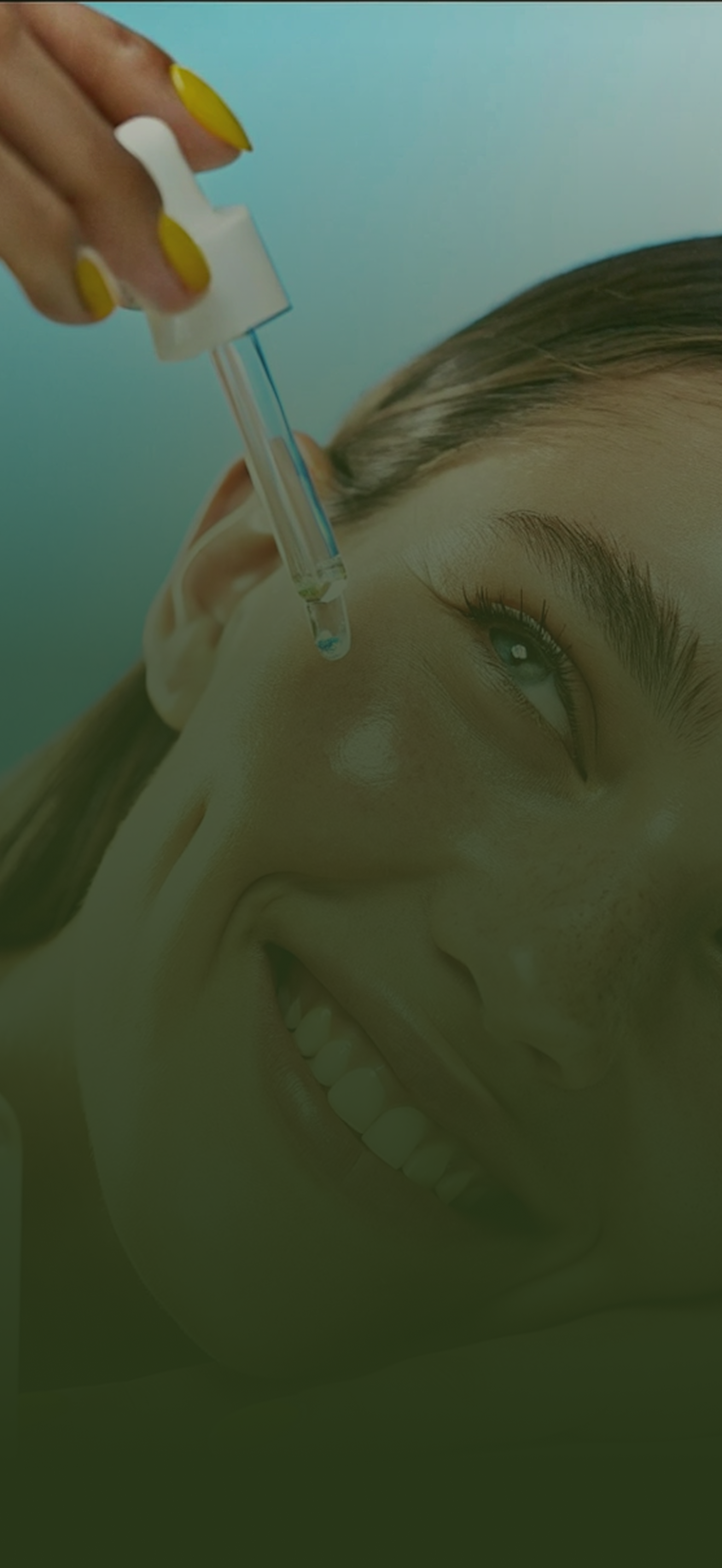
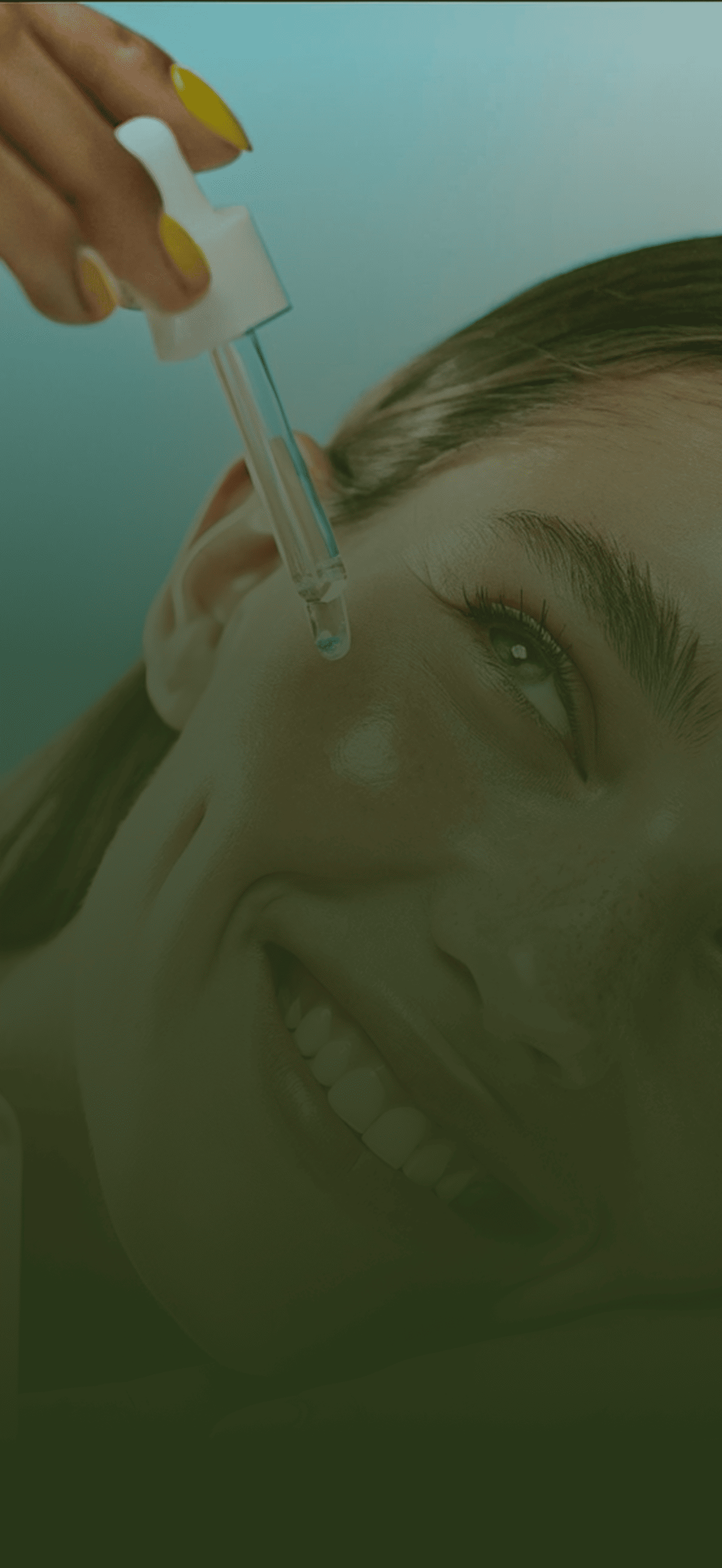
done

diff --git a/src/constant/images.ts b/src/constant/images.ts
@@ -1,10 +1,11 @@
 export const IMAGES = {
-    x2Logo: require("@/assets/images/x2Logo.png"),
+    // x2Logo: require("@/assets/images/x2Logo.png"),
     socialBackgroud: require("@/assets/images/socialBackgroud.png"),
     mapPins:require("@/assets/images/mapPin.png"),
     acceptTermBack:require("@/assets/images/acceptTermBack.png"),
     introductionBack1:require("@/assets/images/introductionBack1.png"),
     introductionBack2:require("@/assets/images/introductionBack2.png"),
+    aiFeatureBack:require("@/assets/images/aiFeatureBack.png"),
     plusLoader:require("@/assets/lotties/plusLoader.json"),
     location:require("@/assets/images/location.png"),
   };

diff --git a/app/(main)/introductionClient/AiScreen.tsx b/app/(main)/introductionClient/AiScreen.tsx
@@ -38,7 +38,7 @@ export default function AiScreen({ onNext }: AiScreenProps) {
       headline="AI-Powered Experience"
       features={features}
       buttonTitle="Continue"
-      backgroundImage={IMAGES.introductionBack1}
+      backgroundImage={IMAGES.aiFeatureBack}
       onNext={onNext}
     />
   );

diff --git a/app/(main)/introduction/Screen3.tsx b/app/(main)/introduction/Screen3.tsx
@@ -38,7 +38,7 @@ export default function Screen3({ onNext }: Screen2Props) {
       headline="AI-Powered Experience"
       features={features}
       buttonTitle="Continue"
-      backgroundImage={IMAGES.introductionBack1}
+      backgroundImage={IMAGES.aiFeatureBack}
       onNext={onNext}
     />
   );
